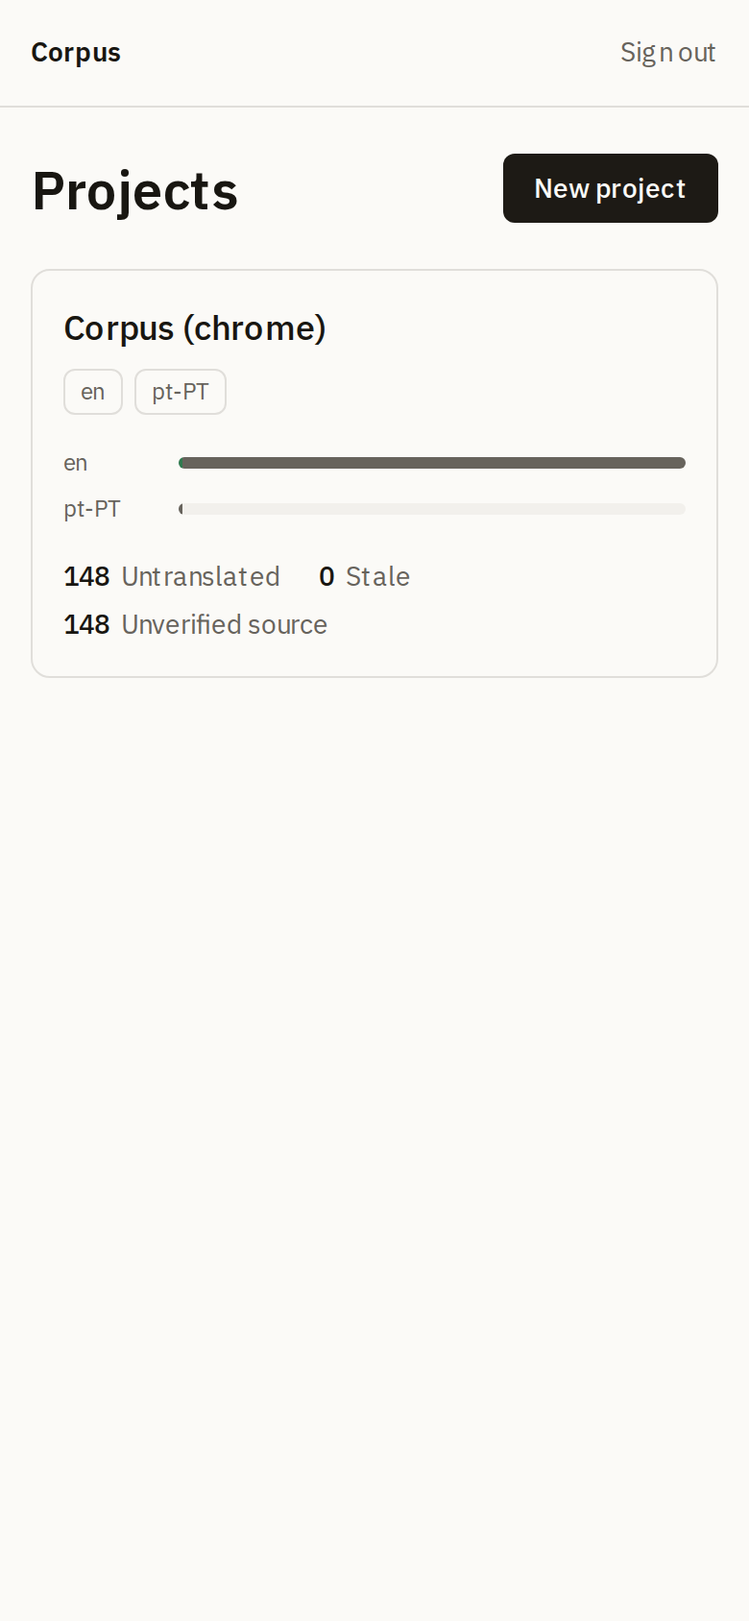
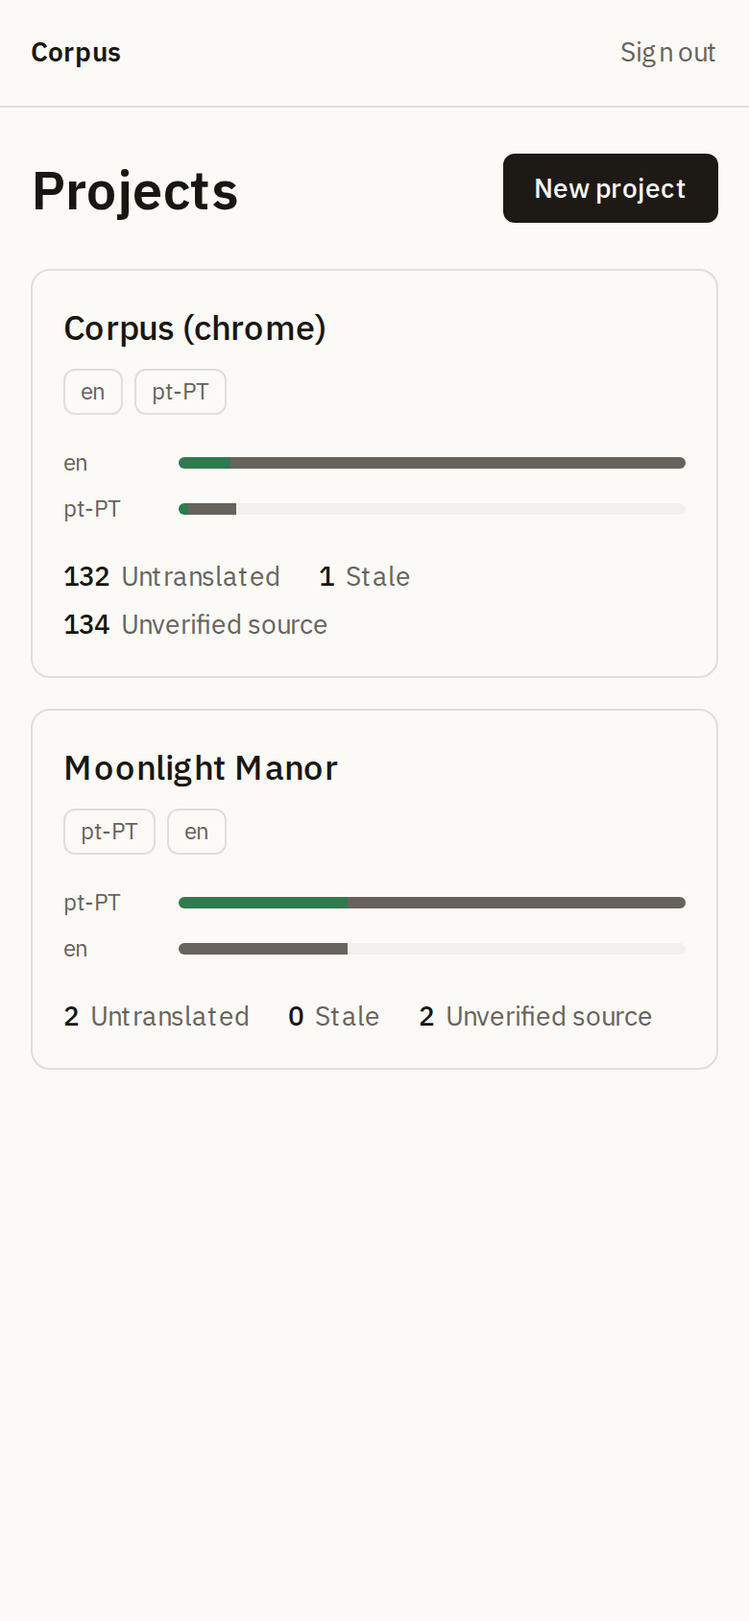
M9 s8: README for the headless path, 0.5.0, screenshots retaken (#308)
* M9 s8: README for the headless path, 0.5.0, screenshots retaken

The README's quick start is init, workbench, push; a CI section shows
check, validate, pull --check and status --json as gates; the CLI
README and init's next steps stop sending people to the new-project
form. CHANGELOG 0.5.0; both packages bumped. The screenshot fixture
seeds the committed Portuguese catalogue, verifies and saves enough to
show every state and one stale row, captures home with both projects
and the catalogue unfiltered, at a 1280-wide desktop frame that ends
below the content instead of a 1600x1000 canvas.

* M9 s8: review fixes

The install smoke runs status (table and --json), validate, pull
--lang and pull --check on both paths, so the epic's done-when is
verified by it; the 0.5.0 changelog link and the compare base; the
catalogue and hero alt texts match the new images; the CI section
names the CI, not the gate; the token wording follows §3; the
screenshot header says 1280.

diff --git a/apps/web/e2e/screenshots.ts b/apps/web/e2e/screenshots.ts
@@ -5,7 +5,7 @@
 import { chromium, type Page } from "@playwright/test";
 import { buildSnapshot, loadConfig } from "@corpus-tool/cli";
 import { moonlightManor } from "@corpus/contract";
-import { mkdirSync } from "node:fs";
+import { mkdirSync, readFileSync } from "node:fs";
 import path from "node:path";
 import { fileURLToPath } from "node:url";
 import { join, SMOKE_SECRET } from "./session";
@@ -48,16 +48,30 @@ async function main(): Promise<void> {
   const context = await browser.newContext({
     baseURL: base,
     viewport: desktop
-      ? { width: 1600, height: 1000 }
+      ? { width: 1280, height: 800 }
       : { width: 390, height: 844 },
     deviceScaleFactor: 2,
     colorScheme: scheme,
   });
   const page = await context.newPage();
-  // From the top of the page, whatever the last action scrolled to.
+  // From the top of the page, whatever the last action scrolled to. On
+  // desktop the frame ends a little under the content instead of at the
+  // viewport's bottom, so a short page is not mostly empty canvas.
   const shot = async (name: string) => {
     await page.evaluate(() => window.scrollTo(0, 0));
-    await page.screenshot({ path: path.join(out, `${name}-${suffix}.png`) });
+    const file = path.join(out, `${name}-${suffix}.png`);
+    if (!desktop) {
+      await page.screenshot({ path: file });
+      return;
+    }
+    const bottom = await page.evaluate(
+      () => document.querySelector("main")?.getBoundingClientRect().bottom ?? 0,
+    );
+    const height = Math.min(800, Math.max(440, Math.ceil(bottom) + 24));
+    await page.screenshot({
+      path: file,
+      clip: { x: 0, y: 0, width: 1280, height },
+    });
   };
 
   // The entry surfaces, before there is a session or a project.
@@ -69,10 +83,31 @@ async function main(): Promise<void> {
   await page.goto(`${base}/projects/new`, { waitUntil: "networkidle" });
   await shot("new-project");
 
+  const save = async (url: string, text: string) => {
+    await page.goto(url);
+    await page.getByRole("textbox").fill(text);
+    await page.getByRole("button", { name: "Save translation" }).click();
+    await page.waitForURL((next) => next.href !== url);
+  };
+  const verify = async (url: string, language: string) => {
+    await page.goto(url);
+    await page
+      .getByRole("button", { name: `Mark ${language} as verified` })
+      .click();
+    await page.waitForURL((next) => next.href !== url);
+  };
+
   // Corpus translating Corpus (§12): the repo's own chrome catalog, built
-  // by the real snapshot builder from corpus.config.ts.
+  // by the real snapshot builder from corpus.config.ts, seeded with the
+  // committed Portuguese catalogue so the surfaces show real progress.
   const config = await loadConfig(REPO);
   const chrome = await buildSnapshot(config, REPO);
+  const seeded = JSON.parse(
+    readFileSync(
+      path.join(REPO, "apps/web/src/i18n/messages.pt-PT.json"),
+      "utf8",
+    ),
+  ) as Record<string, string>;
   const chromeToken = await createProject(
     page,
     config.project,
@@ -80,40 +115,65 @@ async function main(): Promise<void> {
     config.sourceLanguage,
     config.languages,
   );
-  await page.request.post(`${base}/api/push`, {
-    headers: { authorization: `Bearer ${chromeToken}` },
-    data: chrome,
-  });
+  const pushChrome = (snapshot: typeof chrome) =>
+    page.request.post(`${base}/api/push`, {
+      headers: { authorization: `Bearer ${chromeToken}` },
+      data: snapshot,
+    });
+  await pushChrome({ ...chrome, seedTranslations: { "pt-PT": seeded } });
   const corpus = `${base}/p/${config.project}`;
   const chromeString = (key: string, query: string) =>
     `${corpus}/s/${encodeURIComponent(key)}?${query}`;
-  // One translation saved and one source proofread, so the surfaces have
-  // some history to show.
-  await page.goto(
-    chromeString("nav.catalogue", "queue=untranslated&language=pt-PT"),
-  );
-  await page.getByRole("textbox").fill("Catálogo");
-  await page.getByRole("button", { name: "Save translation" }).click();
-  await page.waitForURL((url) => !url.href.includes("nav.catalogue"));
-  await page.goto(
-    chromeString("app.tagline", "queue=unverifiedSource&language=en"),
-  );
-  await page.getByRole("button", { name: "Mark en as verified" }).click();
-  await page.waitForURL((url) => !url.href.includes("app.tagline"));
 
-  await page.goto(`${base}/`, { waitUntil: "networkidle" });
-  await shot("home");
+  // Enough history for every state to show: sources proofread in
+  // English, a few of the seeded translations verified, more saved by
+  // hand, and one source changed after its translation so a row is stale.
+  for (const key of [
+    "app.title",
+    "app.tagline",
+    "nav.overview",
+    "nav.catalogue",
+    "nav.entities",
+    "nav.settings",
+    "nav.signOut",
+    "dashboard.queuesHeading",
+    "dashboard.progressHeading",
+    "queue.untranslated",
+    "queue.stale",
+    "queue.unverifiedSource",
+    "catalogue.heading",
+    "entities.heading",
+    "settings.heading",
+    "verify.button",
+  ]) {
+    await verify(chromeString(key, "queue=unverifiedSource&language=en"), "en");
+  }
+  for (const key of ["app.title", "nav.overview", "nav.catalogue"]) {
+    await verify(chromeString(key, "language=pt-PT"), "pt-PT");
+  }
+  const drafts: Record<string, string> = {
+    "dashboard.queuesHeading": "O que fazer",
+    "dashboard.progressHeading": "Progresso",
+    "queue.untranslated": "Por traduzir",
+    "queue.stale": "Desatualizadas",
+    "queue.unverifiedSource": "Origem por verificar",
+    "state.verified": "Verificada",
+  };
+  for (const [key, text] of Object.entries(drafts)) {
+    await save(chromeString(key, "queue=untranslated&language=pt-PT"), text);
+  }
+  const changed = structuredClone(chrome);
+  const heading = changed.strings.find((s) => s.id === "entities.heading");
+  if (heading) heading.source = `${heading.source} & relations`;
+  await pushChrome(changed);
+
   await page.goto(corpus, { waitUntil: "networkidle" });
   await shot("dashboard");
-  await page.goto(`${corpus}/catalogue?q=verified`, {
-    waitUntil: "networkidle",
-  });
+  await page.goto(`${corpus}/catalogue`, { waitUntil: "networkidle" });
   await shot("catalogue");
   await page.goto(
     chromeString("verify.button", "queue=untranslated&language=pt-PT"),
-    {
-      waitUntil: "networkidle",
-    },
+    { waitUntil: "networkidle" },
   );
   await page.getByRole("textbox").fill("Marcar {language} como verificado");
   await shot("editor");
@@ -162,6 +222,9 @@ async function main(): Promise<void> {
   await shot("editor-structured");
   await page.goto(`${project}/entities`, { waitUntil: "networkidle" });
   await shot("entities");
+  // Both projects staged: the home page has two cards with real progress.
+  await page.goto(`${base}/`, { waitUntil: "networkidle" });
+  await shot("home");
 
   await browser.close();
   console.log(`${scheme}: screenshots written to ${out}`);

diff --git a/packages/cli/src/init.ts b/packages/cli/src/init.ts
@@ -59,13 +59,12 @@ export async function init(args: string[], ctx: RunContext): Promise<number> {
   ctx.out("");
   ctx.out("Next:");
   ctx.out(
-    `  1. Start an instance: corpus workbench (needs @corpus-tool/workbench), or use the one at ${server}.`,
+    `  1. corpus workbench (needs @corpus-tool/workbench) starts an instance, creates the project "${project}" and writes its token to .corpus/token.`,
   );
   ctx.out(
-    `  2. Create the project "${project}" at ${server}/projects/new and copy its push token.`,
+    `     For another instance at ${server}: CORPUS_INVITE_SECRET=<its secret> corpus project create prints the token, for CORPUS_TOKEN or .corpus/token.`,
   );
-  ctx.out("  3. export CORPUS_TOKEN=<token>");
-  ctx.out("  4. corpus push");
+  ctx.out("  2. corpus push");
   return 0;
 }
 

diff --git a/packages/cli/src/init.test.ts b/packages/cli/src/init.test.ts
@@ -91,7 +91,7 @@ test("writes a config that the loader accepts, and says what to do next", async 
     path: "src/i18n/{lang}.json",
   });
   expect(p.out.join("\n")).toMatch(/wrote corpus\.config\.ts/);
-  expect(p.out.join("\n")).toMatch(/projects\/new/);
+  expect(p.out.join("\n")).toMatch(/corpus workbench.*\.corpus\/token/);
   expect(p.out.join("\n")).toMatch(/corpus push/);
 });
 

diff --git a/README.md b/README.md
@@ -17,7 +17,7 @@
 <p align="center">
   <picture>
     <source media="(prefers-color-scheme: dark)" srcset="docs/screenshots/editor-structured-desktop-dark.png">
-    <img src="docs/screenshots/editor-structured-desktop-light.png" width="960" alt="The editor: on the left a source sentence whose gendered select reads inline as visto / vista with a strip naming its keys, the related characters and rooms beneath; on the right the English draft with insertable placeholder and select chips, two live previews built from the string's own example values, and the save button.">
+    <img src="docs/screenshots/editor-structured-desktop-light.png" width="960" alt="The editor: on the left a source sentence whose gendered select reads inline as visto / vista with a strip naming its keys, the related trait and characters beneath; on the right the English draft with insertable placeholder and select chips, two live previews built from the string's own example values, and the save button.">
   </picture>
 </p>
 
@@ -42,10 +42,19 @@ You need Node 22 and nothing else. In the repository whose text you want transla
 
 ```sh
 npm install --save-dev @corpus-tool/cli @corpus-tool/workbench
+npx corpus init --project my-game --source en --languages en,pt-PT \
+  --messages "src/i18n/{lang}.json" --server http://localhost:3000
 npx corpus workbench
 ```
 
-That starts an instance at http://localhost:3000 and prints the invite secret it generated. Open it, join with the secret, a display name and a password, and you are the maintainer. The database and the secret live under `.corpus/` in the repository, which the command adds to `.gitignore`; delete the directory to start over. Updating is `npm update` of the two packages, which always share a version.
+`init` writes `corpus.config.ts`, the whole configuration for a repository whose strings are a plain message catalog. `workbench` starts an instance at http://localhost:3000, creates the project the config declares, and prints the invite secret it generated; the project's token is written to `.corpus/token`, so in another shell:
+
+```sh
+npx corpus push          # the repository's text is in Corpus
+npx corpus status        # how far along each language is, from the terminal
+```
+
+Open the URL, join with the secret, a display name and a password, and you are the maintainer: translate, verify, then `npx corpus pull` writes the verified translations back into the repository's files. The database, the secret and the token live under `.corpus/`, which the command adds to `.gitignore`; delete the directory to start over. Updating is `npm update` of the two packages, which always share a version.
 
 ## For a team
 
@@ -64,14 +73,7 @@ Two things to know before exposing it: mount a directory, never a single file (S
 
 ## Connect a repository
 
-With the packages installed, let the CLI write the config:
-
-```sh
-npx corpus init --project my-game --source en --languages en,pt-PT \
-  --messages "src/i18n/{lang}.json" --server http://localhost:3000
-```
-
-That writes a `corpus.config.ts`, the whole configuration for a repository whose strings are a plain message catalog. The CLI never guesses where text lives; the config declares it:
+The CLI never guesses where text lives; `corpus.config.ts` declares it:
 
 ```ts
 import { defineCorpus } from "@corpus-tool/cli";
@@ -87,20 +89,42 @@ export default defineCorpus({
 });
 ```
 
-With the instance running, create the project in it (it shows you the push token once), then push:
+The project exists on the instance before the first push. `corpus workbench` creates it when it starts in a repository with a config and no `.corpus/token`; against any other instance, the instance secret creates it and prints the token once, alone on the last line, for `CORPUS_TOKEN` or `.corpus/token`:
 
 ```sh
-export CORPUS_TOKEN=<token>
+CORPUS_INVITE_SECRET=<the instance secret> npx corpus project create --name "My game"
+```
+
+Where a command needs the project token it reads `CORPUS_TOKEN`, then `.corpus/token`; `corpus project rotate-token` replaces it with the current one and rewrites the file when that is where it came from. The commands:
+
+```sh
 npx corpus build                      # no server: runs the sources, validates, prints a summary
 npx corpus push                       # repo → Corpus: adds, changes, marks stale, archives
+npx corpus status                     # per-language and per-type counts; --json for a script
 npx corpus pull                       # Corpus → repo: verified translations only
 npx corpus pull --min-state translated  # Corpus → repo: translated and verified
+npx corpus pull --lang pt-PT          # one language's files, the rest untouched
+npx corpus pull --check               # writes nothing; exit 1 if a pull would change a file
+npx corpus validate                   # no server: every translation still fits its source
 npx corpus check                      # lint: user-facing literals outside declared sources (ignore by prefix or glob)
 ```
 
-`build` needs no server or token, so a config or an exporter can be checked as it is written; it also names any source that cannot take translations back (an `exec` source without `importCommand`, a path without `{lang}`, a `.ts` catalogue, since pull writes JSON only), as does `push`. Pushing is a diff by string id: new ids are added, changed source text marks its translations stale, ids that disappear are archived with their history kept. Pulling writes translations back and prints only the files it changed. Node 22 or later; a TypeScript config needs no build step.
+`build` needs no server or token, so a config or an exporter can be checked as it is written; it also names any source that cannot take translations back (an `exec` source without `importCommand`, a path without `{lang}`, a `.ts` catalogue, since pull writes JSON only), as does `push`. Pushing is a diff by string id: new ids are added, changed source text marks its translations stale, ids that disappear are archived with their history kept; push also names any language the config and the project disagree on, since the config sets the project's languages once, at creation, and the settings page owns them after that. Pulling writes translations back and prints only the files it changed. `validate` runs the editor's checks over the target files (a placeholder dropped, a select malformed, a key the source no longer has) with no server, so a hand edit or a merge cannot ship a broken translation. Node 22 or later; a TypeScript config needs no build step.
 
 Structured sources, `table` records (a module's default or named export, with the fields to carry as metadata listed in the map) or an `exec` command that emits entries, are described in the [design spec, §3](docs/corpus-design.md). Note that `corpus push` and `corpus pull` run the repository's own `corpus.config.ts` and any `exec` commands it declares, so run them only in repositories you trust, as you would their build scripts.
+
+## In CI
+
+Nothing here needs a browser. A job with `CORPUS_TOKEN` in its environment can gate a merge on the translation state:
+
+```sh
+npx corpus check                                          # no stray literals
+npx corpus validate                                       # every translation still fits its source
+npx corpus pull --check                                   # the repository carries what is verified
+npx corpus status --json | jq -e '.progress.perLanguage["pt-PT"].untranslated == 0'
+```
+
+`status --json` is the dashboard's numbers as one object: per language and per string type, `untranslated`, `translated`, `verified`, `stale` and `total`, with the string count, the last push and the server's version. A throwaway instance for a test job is `corpus workbench` in the repository, which creates the project and writes the token itself; this repository's CI does exactly that (`bin/install-smoke`), and pushes its interface strings to a fresh container the same way (`bin/dogfood`).
 
 ## How it works
 
@@ -130,7 +154,7 @@ Source text and metadata belong to the repository; translations and workflow sta
 <p align="center">
   <picture>
     <source media="(prefers-color-scheme: dark)" srcset="docs/screenshots/catalogue-desktop-dark.png">
-    <img src="docs/screenshots/catalogue-desktop-light.png" width="960" alt="The catalogue: facet filters in a rail on the left; on the right the per-language progress, a search box with the active filter as a chip, and one row per string with its key, type, source and per-language state chips.">
+    <img src="docs/screenshots/catalogue-desktop-light.png" width="960" alt="The catalogue: facet filters in a rail on the left; on the right the per-language progress, the search box, and one row per string with its key, type, source and per-language state chips, verified ones filled in green.">
   </picture>
 </p>
 
@@ -173,7 +197,7 @@ Environment variables are documented in [`apps/web/.env.example`](apps/web/.env.
 | `PORT`                 | `3000` (`--port`)                 | `3000`                            | `3000`                         |
 | `CORPUS_PUBLIC_URL`    | unset                             | the public origin, behind a proxy | unset                          |
 
-Migrations apply automatically when the app starts, and the boot log names the database file it opened.
+The CLI reads the project token from `CORPUS_TOKEN`, then from `.corpus/token`, which `corpus workbench` writes; `corpus project create` needs the instance secret in `CORPUS_INVITE_SECRET`, or reads `.corpus/secret` when the server is the local workbench. Migrations apply automatically when the app starts, and the boot log names the database file it opened.
 
 ## Local development
 
@@ -189,7 +213,7 @@ npm run dev
 
 The database is created on first start at `apps/web/data/corpus.db` and is gitignored; delete it to start over.
 
-`bin/gate` is the one quality gate, locally and in CI: typecheck, lint, format, the CLI build, the full test suite, and `corpus check` on this repository's own interface strings. `bin/smoke` walks the whole loop in a browser, invite to verified translation, on a phone viewport and then checks the desktop layouts; `bin/container-smoke` builds and boots the production image; `bin/install-smoke` installs the packed CLI and workbench into a fresh repository and round-trips it against `corpus workbench` and then against that image; `bin/screenshots` regenerates the images above. Releases are tags: see `AGENTS.md`.
+`bin/gate` is the one quality gate, locally and in CI: typecheck, lint, format, both package builds, the full test suite, and `corpus check` and `corpus validate` on this repository's own interface strings. `bin/smoke` walks the whole loop in a browser, invite to verified translation, on a phone viewport and then checks the desktop layouts; `bin/container-smoke` builds and boots the production image; `bin/install-smoke` installs the packed CLI and workbench into a fresh repository and round-trips it against `corpus workbench` and then against that image; `bin/screenshots` regenerates the images above. Releases are tags: see `AGENTS.md`.
 
 ## Documentation
 
@@ -200,7 +224,7 @@ The database is created on first start at `apps/web/data/corpus.db` and is gitig
 
 ## Status
 
-The MVP is complete, the interface has been through two design passes, and Corpus ships on npm as `@corpus-tool/cli` and `@corpus-tool/workbench`, with the image published beside them at the same version. Corpus runs its own translation into Portuguese from this repository on every build, and every release installs both packages into a fresh repository and round-trips them, with and without Docker, before publishing. A first outside project has been through it and its findings are in.
+The MVP is complete, the interface has been through two design passes, and Corpus ships on npm as `@corpus-tool/cli` and `@corpus-tool/workbench`, with the image published beside them at the same version. Corpus runs its own translation into Portuguese from this repository on every build, and every release installs both packages into a fresh repository and round-trips them, with and without Docker, before publishing. A first outside project has been through it, and what it asked for next, a CLI that covers the whole loop with no browser and no token pasted, is in.
 
 ## License
 

diff --git a/CHANGELOG.md b/CHANGELOG.md
@@ -7,6 +7,25 @@ contract (`corpus/1`) is the only one.
 
 ## [Unreleased]
 
+## [0.5.0] - 2026-09-07
+
+The CLI covers the headless path: what the first outside integration asked for, ranked by how often it was blocked.
+
+### Added
+
+- `corpus workbench` creates the project `corpus.config.ts` declares when it starts in a repository with no `.corpus/token`, and writes the token there (owner-only); an existing project is named with its settings page. `--no-provision` opts out.
+- `corpus project create [--name] [--server]` creates the config's project on any instance with the instance secret (`CORPUS_INVITE_SECRET`, or `.corpus/secret` for a local workbench) and prints the token alone on the last line of stdout; `corpus project rotate-token` replaces a token with the current one and rewrites `.corpus/token` when that is where it came from. Server side: `POST /api/projects` with the secret, rate-limited like the join form, and `POST /api/projects/<slug>/token` with the current token.
+- Where a command needs the project token it reads `CORPUS_TOKEN`, then `.corpus/token`.
+- `corpus status [--json]`: the dashboard's numbers in the terminal, per language and per string type, with the string count, the last push and the server's version, and a line naming any language the config and the project disagree on. `GET /api/status` with the project token.
+- `corpus pull --lang <l>` (repeatable) pulls one language's files and leaves the rest alone (`/api/pull?lang=`); `corpus pull --check` writes nothing and exits 1 when a pull would change a file.
+- `corpus validate [--json]`: the editor's checks over the target files of every JSON source, offline: a dropped placeholder, a malformed select, or a key the source no longer has is a finding, `file:key: message` one per line, exit 1. The repository's own gate runs it.
+- `corpus push` names languages the config declares that the project lacks, and the reverse.
+
+### Changed
+
+- The gate scripts (`bin/dogfood`, `bin/install-smoke`, the screenshot fixture) create their projects through the CLI and the API instead of inserting rows by hand.
+- The README's quick start is `init`, `workbench`, `push`; a section on CI gates; the screenshots are retaken at a smaller desktop viewport with a staged project that shows every state.
+
 ## [0.4.1] - 2026-09-07
 
 What the demo project's integration found.
@@ -78,7 +97,8 @@ The first published version.
 - The `messages`, `table` and `exec` adapters, and the `corpus/1` snapshot contract with its ICU subset (placeholders and `select`).
 - The package ships plain JavaScript for Node 22 with type declarations; a client's config imports `defineCorpus` from `@corpus-tool/cli`.
 
-[Unreleased]: https://github.com/miguelaguiar01/corpus/compare/v0.4.1...HEAD
+[Unreleased]: https://github.com/miguelaguiar01/corpus/compare/v0.5.0...HEAD
+[0.5.0]: https://github.com/miguelaguiar01/corpus/releases/tag/v0.5.0
 [0.4.1]: https://github.com/miguelaguiar01/corpus/releases/tag/v0.4.1
 [0.4.0]: https://github.com/miguelaguiar01/corpus/releases/tag/v0.4.0
 [0.3.1]: https://github.com/miguelaguiar01/corpus/releases/tag/v0.3.1

diff --git a/packages/cli/README.md b/packages/cli/README.md
@@ -1,16 +1,16 @@
 # @corpus-tool/cli
 
-The `corpus` command for [Corpus](https://github.com/miguelaguiar01/corpus), a self-hosted translation workbench for games and apps whose text is structured. The CLI runs inside the repository whose text is translated: `corpus init` writes the config, `corpus push` uploads the repository's text to a Corpus instance, `corpus pull` writes verified translations back, and `corpus check` lints for user-facing literals outside declared sources.
+The `corpus` command for [Corpus](https://github.com/miguelaguiar01/corpus), a self-hosted translation workbench for games and apps whose text is structured. The CLI runs inside the repository whose text is translated: `corpus init` writes the config, `corpus workbench` starts an instance from the companion package and creates the project, `corpus push` uploads the repository's text, `corpus status` shows how far each language is, `corpus pull` writes verified translations back, and `corpus validate` and `corpus check` keep the repository honest offline.
 
 ```sh
-npm install --save-dev @corpus-tool/cli
+npm install --save-dev @corpus-tool/cli @corpus-tool/workbench
 npx corpus init --project my-game --source en --languages en,pt-PT \
-  --messages "src/i18n/{lang}.json" --server https://corpus.example
-export CORPUS_TOKEN=<the project's push token>
+  --messages "src/i18n/{lang}.json" --server http://localhost:3000
+npx corpus workbench      # starts the instance, creates the project, writes .corpus/token
 npx corpus push
 npx corpus pull
 ```
 
-`push` and `pull` execute the repository's own `corpus.config.ts` and any `exec` commands it declares, by design: run them only in repositories you trust, as you would their build scripts. Node 22 or later.
+Against a team's instance, `CORPUS_INVITE_SECRET=<secret> npx corpus project create` prints the project's token once, for `CORPUS_TOKEN` or `.corpus/token`. `push`, `pull` and `validate` execute the repository's own `corpus.config.ts` and any `exec` commands it declares, by design: run them only in repositories you trust, as you would their build scripts. Node 22 or later.
 
 The full guide, the design spec, and the changelog live in the [repository](https://github.com/miguelaguiar01/corpus).
